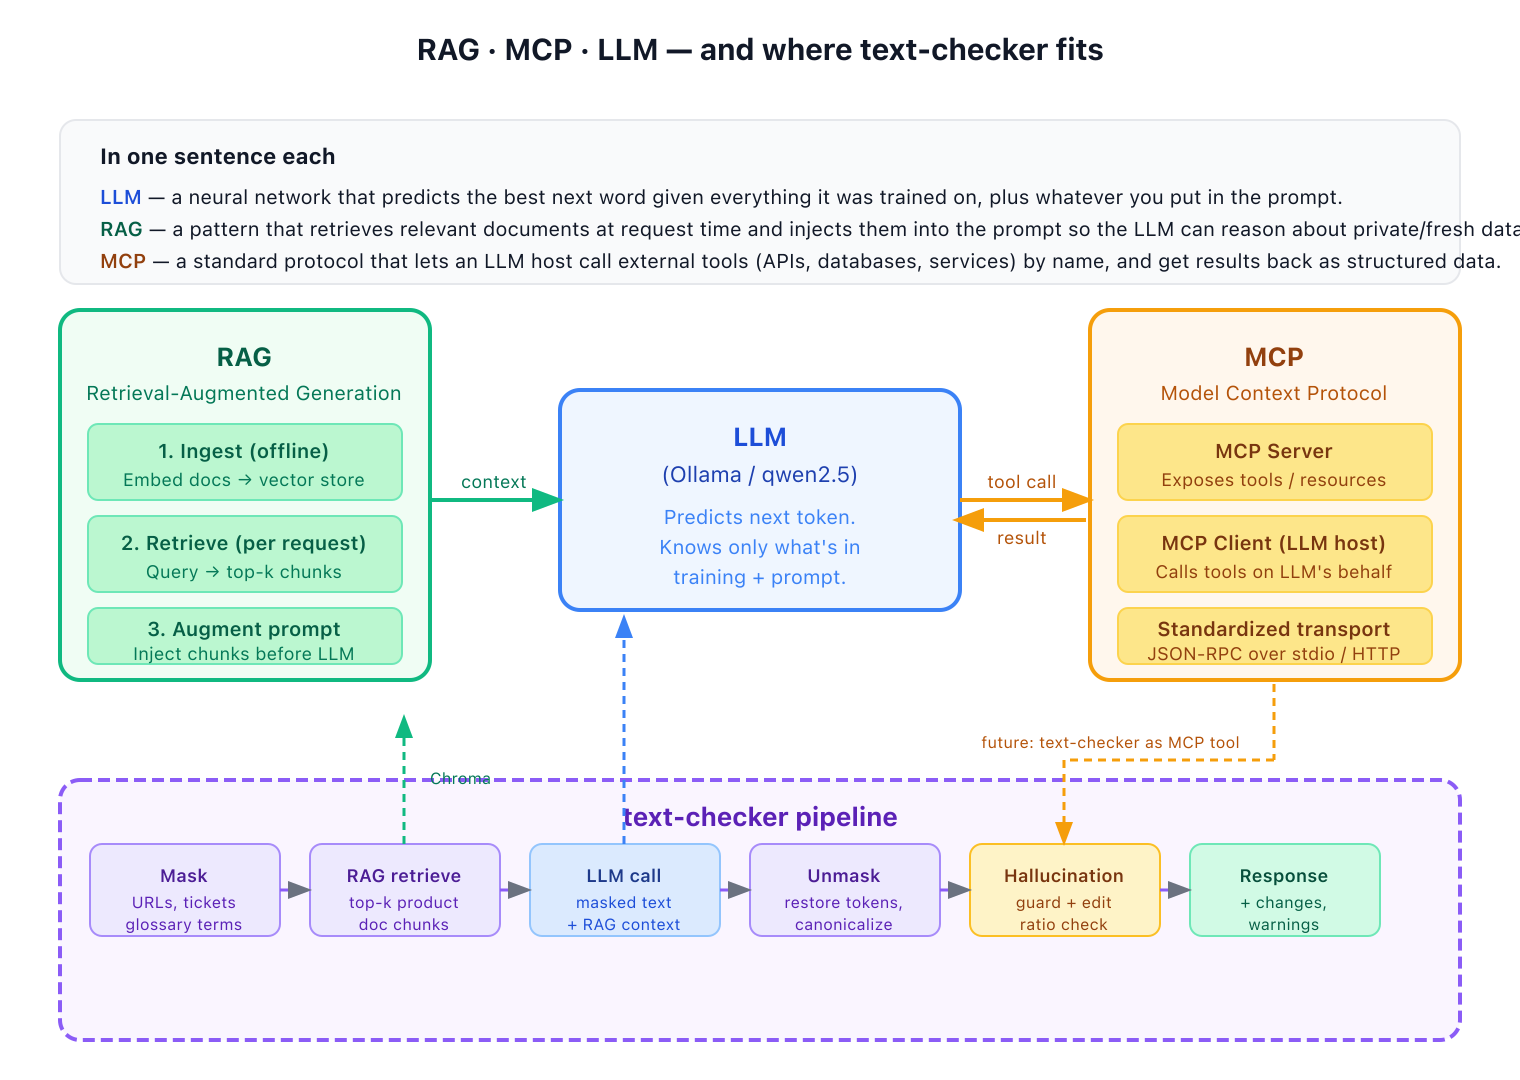
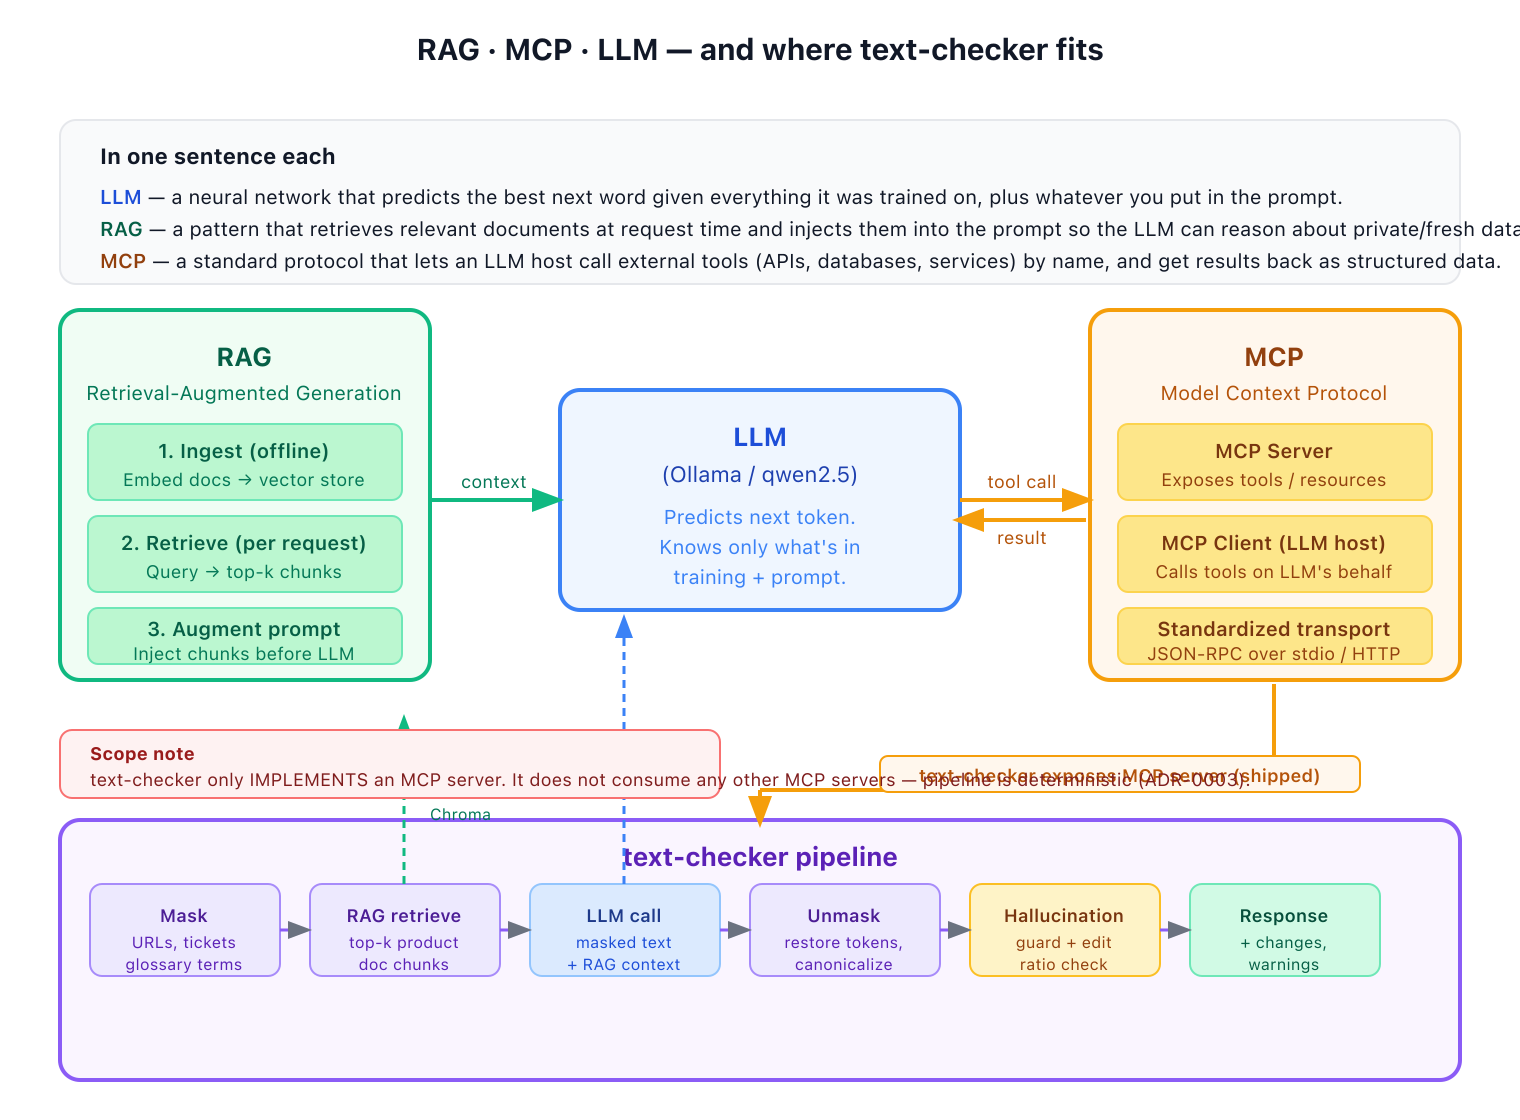
Update rag-mcp-llm diagram: flip 'future' to shipped; add scope note
Two clarifications caught by review:
1. The dashed 'future: text-checker as MCP tool' arrow is now solid and
   labeled 'text-checker exposes MCP server (shipped)' — reflects the
   post-#26 reality that the MCP server is built and running.
2. Added a scope note (in both the diagram and docs/concepts.md) that
   text-checker only IMPLEMENTS the MCP server side. It does not
   consume any other MCP servers — the pipeline is deterministic per
   ADR-0003 and does no tool-use loops.

diff --git a/docs/concepts.md b/docs/concepts.md
@@ -104,6 +104,8 @@ MCP servers communicate over JSON-RPC, either via stdio (local processes) or HTT
 
 text-checker ships an MCP server as of ADR-0015. It's a thin HTTP client of the running text-checker service that exposes four tools — `correct_text`, `list_modes`, `list_models`, `ingest_document` — over both stdio (for VS Code Copilot Chat and Claude Code) and streamable HTTP on port 8081 (for remote bots). The HTTP transport requires the same `X-API-Key` the main service does; if no key is configured, the server fails closed rather than silently allowing traffic.
 
+> **Scope.** text-checker only implements the **MCP server** side. It does not consume any other MCP servers — the correction pipeline is deterministic (ADR-0003) and does not perform tool-use loops. If you're looking for an LLM that can call MCP tools during reasoning, that's a different product shape than this one.
+
 Start it locally:
 
 ```bash
